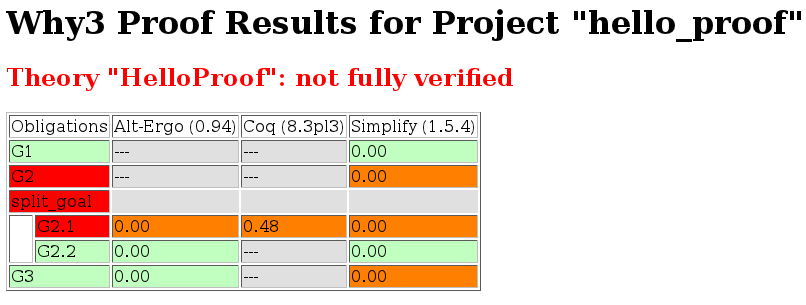
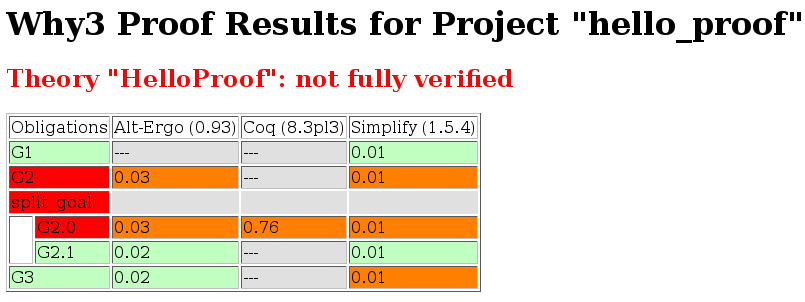
doc, update uses of HelloProof example

diff --git a/doc/manpages.tex b/doc/manpages.tex
@@ -18,7 +18,7 @@ provided by the \why environment. These are as follows:
 \end{description}
 
 All these tools accept a common subset of command-line options. In
-particular the option -help which displays the usage and options.
+particular the option \verb|-help| which displays the usage and options.
 \begin{description}
 \item[\texttt{-L} $d$]
   adds $d$ in the load path, to search for theories.
@@ -257,15 +257,38 @@ A copy of the tools already available in the left toolbar, plus:
 A very short online help, and some information about this software.
 \end{description}
 
-\subsection{Preferences}
+\subsection{Preferences Dialog}
 
-The preferences window allows you customize
+The preferences dialog allows you to customize various settings. These
+are groups together under several tabs
+
+\begin{description}
+\item[\textsf{General Settings} tab]
 \begin{itemize}
 \item the default editor to use when the \textsf{Edit} button is
   pressed\footnote{This might be overridden for a specific prover. The only way
   to do that for the moment is to manually edit the configuration file.}
 \item the time limit given to provers, in seconds
-\item the maximal number of simultaneous provers allowed to run in parallel.
+\item the maximal number of simultaneous provers allowed to run in
+  parallel.
+\item A few display settings:
+  \begin{itemize}
+  \item introduce premises: if selected, the goal of the task shownin
+    top-right window is displayed after introduction of universally
+    quantified variables and implications, e.g. a goal of the form
+    $\forall x: t. P \rightarrow Q$ is displayed as
+    \[
+    \begin{array}{l}
+      x : t \\
+      H : P \\
+      \hline
+      Q
+    \end{array}
+    \]
+  \item show labels in formulas
+  \item show source locations in formulas
+  \item show time limit for each proof
+  \end{itemize}
 \item the policy for saving session:
   \begin{itemize}
   \item always save on exit (default): the current state of the proof session is saving on exit
@@ -273,9 +296,16 @@ The preferences window allows you customize
   \item ask whether to save: on exit, a popup window ask whether you
     want to save or not.
   \end{itemize}
-
-\todo{manque des choses}
 \end{itemize}
+\item[\textsf{Provers} tab]
+  Here you can selected which of the installed provers you want to see
+  as buttons in the left toolbar
+\item[\textsf{Uninstalled Provers} tab]
+  Here are shown all the decision previously taken for uninstalled
+  provers, as described in
+  Section~\ref{sec:uninstalledprovers}. You can remove any recorded
+  decision by clicking on it.
+\end{description}
 
 \section{The \texttt{why3ml} tool}
 
@@ -558,7 +588,29 @@ The proof statistics given by option \verb|--stats| are as follows:
   goals \emph{where the prover was successfull}.
 \end{itemize}
 
-\todo{Example}
+For example, here are the session statistics produced on the ``hello
+proof'' example of Section~\ref{chap:starting}.
+\begin{verbatim}
+== Number of goals ==
+  total: 5  proved: 3
+
+== Goals not proved ==
+  +-- file ../hello_proof.why
+    +-- theory HelloProof
+      +-- goal G2
+        +-- transformation split_goal
+          +-- goal G2.0
+
+== Goals proved by only one prover ==
+  +-- file ../hello_proof.why
+    +-- theory HelloProof
+      +-- goal G1: Simplify (1.5.4) (0.01)
+      +-- goal G3: Alt-Ergo (0.93) (0.02)
+
+== Statistics per prover: number of proofs, time (minimum/maximum/average) in seconds ==
+  Alt-Ergo (0.93)      :   2   0.02   0.02   0.02
+  Simplify (1.5.4)     :   2   0.01   0.01   0.01
+\end{verbatim}
 
 \subsection{Command \texttt{latex}}
 

diff --git a/doc/install.tex b/doc/install.tex
@@ -138,6 +138,7 @@ Appendix~\ref{sec:proverdetecttiondata} for details.
 
 
 \section{Session Update after Prover Upgrade}
+\label{sec:uninstalledprovers}
 
 If you happen to upgrade a prover, e.g. installing CVC3 2.4.1 in place
 of CVC3 2.2, then the proof sessions formerly recorded will still
@@ -167,10 +168,11 @@ discard these choices via the \textsf{Preferences} dialog.
 
 Outside the GUI, the prover upgrades are handled as follows. The
 \texttt{why3replayer} tool will just ignore proof attempts marked as
-archived. Conversely, a non-archived proof attempt with a
-non-existent prover will be reported as a replay failure. The tool
+archived. Conversely, a non-archived proof attempt with a non-existent
+prover will be reported as a replay failure. The tool
 \texttt{why3session} allows you to perform move or copy operations on
-proof attempts in a fine-grain way, using filters, as detailed in Section~\ref{sec:why3session}.
+proof attempts in a fine-grain way, using filters, as detailed in
+Section~\ref{sec:why3session}.
 
 
 \todo{que devient l'option -to-known-prover de why3session ?

diff --git a/doc/HelloProof.tex b/doc/HelloProof.tex
@@ -1,13 +1,13 @@
 \begin{tabular}{| l |c |c |c |c |c |}
-\hline \multicolumn{2}{|c|}{Proof obligations } & \provername{Alt-Ergo 0.93} & \provername{Coq 8.2pl1} & \provername{Simplify 1.5.4} \\ 
+\hline \multicolumn{2}{|c|}{Proof obligations } & \provername{Alt-Ergo (0.93)} & \provername{Coq (8.3pl3)} & \provername{Simplify (1.5.4)} \\ 
 \hline 
 \explanation{G1} & \explanation{ }& \noresult& \noresult& \valid{0.01} \\ 
 \hline 
-\explanation{G2} & \explanation{ }& \noresult& \noresult& \unknown \\ 
+\explanation{G2} & \explanation{ }& \unknown & \noresult& \unknown \\ 
+\cline{2-4} 
+\explanation{ }& \explanation{ }\explanation{G2.0} & \unknown & \unknown & \unknown \\ 
 \cline{2-5} 
-\explanation{ }& \explanation{ }\explanation{G2.1} & \unknown & \unknown & \unknown \\ 
-\cline{2-5} 
-\explanation{ }& \explanation{ }\explanation{G2.2} & \valid{0.02} & \noresult& \valid{0.01} \\ 
+\explanation{ }& \explanation{ }\explanation{G2.1} & \valid{0.02} & \noresult& \valid{0.01} \\ 
 \hline 
 \explanation{G3} & \explanation{ }& \valid{0.02} & \noresult& \unknown \\ 
 \hline \end{tabular}
